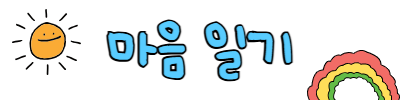
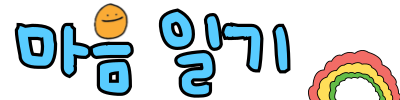
Add files via upload

diff --git a/index.html b/index.html
@@ -49,7 +49,7 @@ textarea:focus { outline:none; border-color:var(--gold) !important; }
 .icon-btn {
   width:30px; height:30px; border-radius:50%; border:1px solid var(--border);
   background:var(--surface); color:var(--text-mid); font-size:13px;
-  display:flex; align-items:center; justify-content:center;
+  display:flex; align-items:center; justify-content:center; flex-shrink:0; cursor:pointer;
 }
 
 /* ── Date Nav ── */
@@ -133,7 +133,8 @@ textarea:focus { outline:none; border-color:var(--gold) !important; }
 /* ── App Shell ── */
 .app { max-width:500px; margin:0 auto; padding:0 16px 80px; }
 .header { padding:24px 0 16px; display:flex; align-items:center; justify-content:space-between; }
-.header-left h1 { font-size:18px; font-weight:700; letter-spacing:-0.03em; }
+.header-left { flex:1; min-width:0; }
+.title-img { height:56px; width:auto; max-width:100%; object-fit:contain; object-position:left center; display:block; }
 .header-left p { font-size:11px; color:var(--text-faint); margin-top:3px; }
 .header-right { display:flex; align-items:center; gap:10px; }
 .avatar { width:28px; height:28px; border-radius:50%; border:1.5px solid var(--border); cursor:pointer; }
@@ -165,16 +166,16 @@ textarea:focus { outline:none; border-color:var(--gold) !important; }
 }
 .input-label { font-size:11px; font-weight:600; color:var(--text-mid); display:block; margin-bottom:8px; }
 .input-textarea {
-  width:100%; padding:6px 14px 6px 22px; border-radius:8px;
+  width:100%; padding:8px 14px 8px 22px; border-radius:8px;
   border:1px solid var(--border); color:var(--text); font-size:14px;
   resize:vertical;
-  line-height:27px;
+  line-height:30px;
   background-color: var(--surface-warm);
   background-image:
     radial-gradient(circle at 1px 1px, rgba(120,100,80,0.05) 1px, transparent 0),
-    repeating-linear-gradient(to bottom, transparent, transparent 26px, var(--border-soft) 26px, var(--border-soft) 27px),
+    repeating-linear-gradient(to bottom, transparent, transparent 29px, var(--border-soft) 29px, var(--border-soft) 30px),
     linear-gradient(to right, transparent, transparent 11px, rgba(224,122,110,0.3) 11px, rgba(224,122,110,0.3) 12.5px, transparent 12.5px);
-  background-size: 5px 5px, 100% 27px, auto;
+  background-size: 5px 5px, 100% 30px, auto;
   background-attachment: local, local, local;
 }
 .btn-primary {
@@ -1103,7 +1104,7 @@ function DiaryApp({ user, onLogout }) {
       {/* Header */}
       <header className="header">
         <div className="header-left">
-          <img src="title.png" alt="마음 일기" style={{height:36}}/>
+          <img src="title.png" alt="마음 일기" className="title-img"/>
         </div>
         <div className="header-right" style={{position:"relative",display:"flex",alignItems:"center",gap:8}}>
           <BackupBar storage={storage} userName={user.name} onImported={handleImported}/>
@@ -1147,6 +1148,17 @@ function DiaryApp({ user, onLogout }) {
               <div className="tag-input-row">
                 <input className="tag-input" value={gTagInput} onChange={e=>setGTagInput(e.target.value)}
                   placeholder="태그 (쉼표로 구분, 예: 가족, 감사, 여행)"/>
+                {!gImage ? (
+                  <label className="icon-btn" title="사진 추가">
+                    📷
+                    <input type="file" accept="image/*" style={{display:"none"}} onChange={e=>handleImageSelect(e,setGImage)}/>
+                  </label>
+                ) : (
+                  <div className="image-preview-wrap" style={{margin:0,flexShrink:0}}>
+                    <img className="image-preview" src={gImage} alt="" style={{width:30,height:30}}/>
+                    <button className="image-remove-btn" onClick={()=>setGImage(null)}>×</button>
+                  </div>
+                )}
               </div>
               {gTagInput.trim() && (
                 <div className="tag-preview">
@@ -1155,20 +1167,7 @@ function DiaryApp({ user, onLogout }) {
                   ))}
                 </div>
               )}
-              <div style={{marginTop:10}}>
-                {!gImage ? (
-                  <label className="image-add-btn">
-                    📷 사진 추가
-                    <input type="file" accept="image/*" style={{display:"none"}} onChange={e=>handleImageSelect(e,setGImage)}/>
-                  </label>
-                ) : (
-                  <div className="image-preview-wrap">
-                    <img className="image-preview" src={gImage} alt=""/>
-                    <button className="image-remove-btn" onClick={()=>setGImage(null)}>×</button>
-                  </div>
-                )}
-                {imgLoading && <span style={{fontSize:10,color:"var(--text-faint)",marginLeft:8}}>압축 중...</span>}
-              </div>
+              {imgLoading && <span style={{fontSize:10,color:"var(--text-faint)"}}>사진 압축 중...</span>}
               <div style={{display:"flex",gap:8,marginTop:10}}>
                 <button className="btn-primary" style={{background:"var(--rose)"}} onClick={addG}>{editingId?"수정 완료":"기록"}</button>
                 {editingId&&<button className="btn-secondary" onClick={cancel}>취소</button>}
@@ -1203,6 +1202,17 @@ function DiaryApp({ user, onLogout }) {
               <div className="tag-input-row">
                 <input className="tag-input" value={rTagInput} onChange={e=>setRTagInput(e.target.value)}
                   placeholder="태그 (쉼표로 구분, 예: 시간관리, 감정)"/>
+                {!rImage ? (
+                  <label className="icon-btn" title="사진 추가">
+                    📷
+                    <input type="file" accept="image/*" style={{display:"none"}} onChange={e=>handleImageSelect(e,setRImage)}/>
+                  </label>
+                ) : (
+                  <div className="image-preview-wrap" style={{margin:0,flexShrink:0}}>
+                    <img className="image-preview" src={rImage} alt="" style={{width:30,height:30}}/>
+                    <button className="image-remove-btn" onClick={()=>setRImage(null)}>×</button>
+                  </div>
+                )}
               </div>
               {rTagInput.trim() && (
                 <div className="tag-preview">
@@ -1211,20 +1221,7 @@ function DiaryApp({ user, onLogout }) {
                   ))}
                 </div>
               )}
-              <div style={{marginTop:10}}>
-                {!rImage ? (
-                  <label className="image-add-btn">
-                    📷 사진 추가
-                    <input type="file" accept="image/*" style={{display:"none"}} onChange={e=>handleImageSelect(e,setRImage)}/>
-                  </label>
-                ) : (
-                  <div className="image-preview-wrap">
-                    <img className="image-preview" src={rImage} alt=""/>
-                    <button className="image-remove-btn" onClick={()=>setRImage(null)}>×</button>
-                  </div>
-                )}
-                {imgLoading && <span style={{fontSize:10,color:"var(--text-faint)",marginLeft:8}}>압축 중...</span>}
-              </div>
+              {imgLoading && <span style={{fontSize:10,color:"var(--text-faint)"}}>사진 압축 중...</span>}
               <div style={{display:"flex",gap:8,marginTop:10}}>
                 <button className="btn-primary" style={{background:"var(--ocean-dark)"}} onClick={addR}>{editingId?"수정 완료":"기록"}</button>
                 {editingId&&<button className="btn-secondary" onClick={cancel}>취소</button>}
